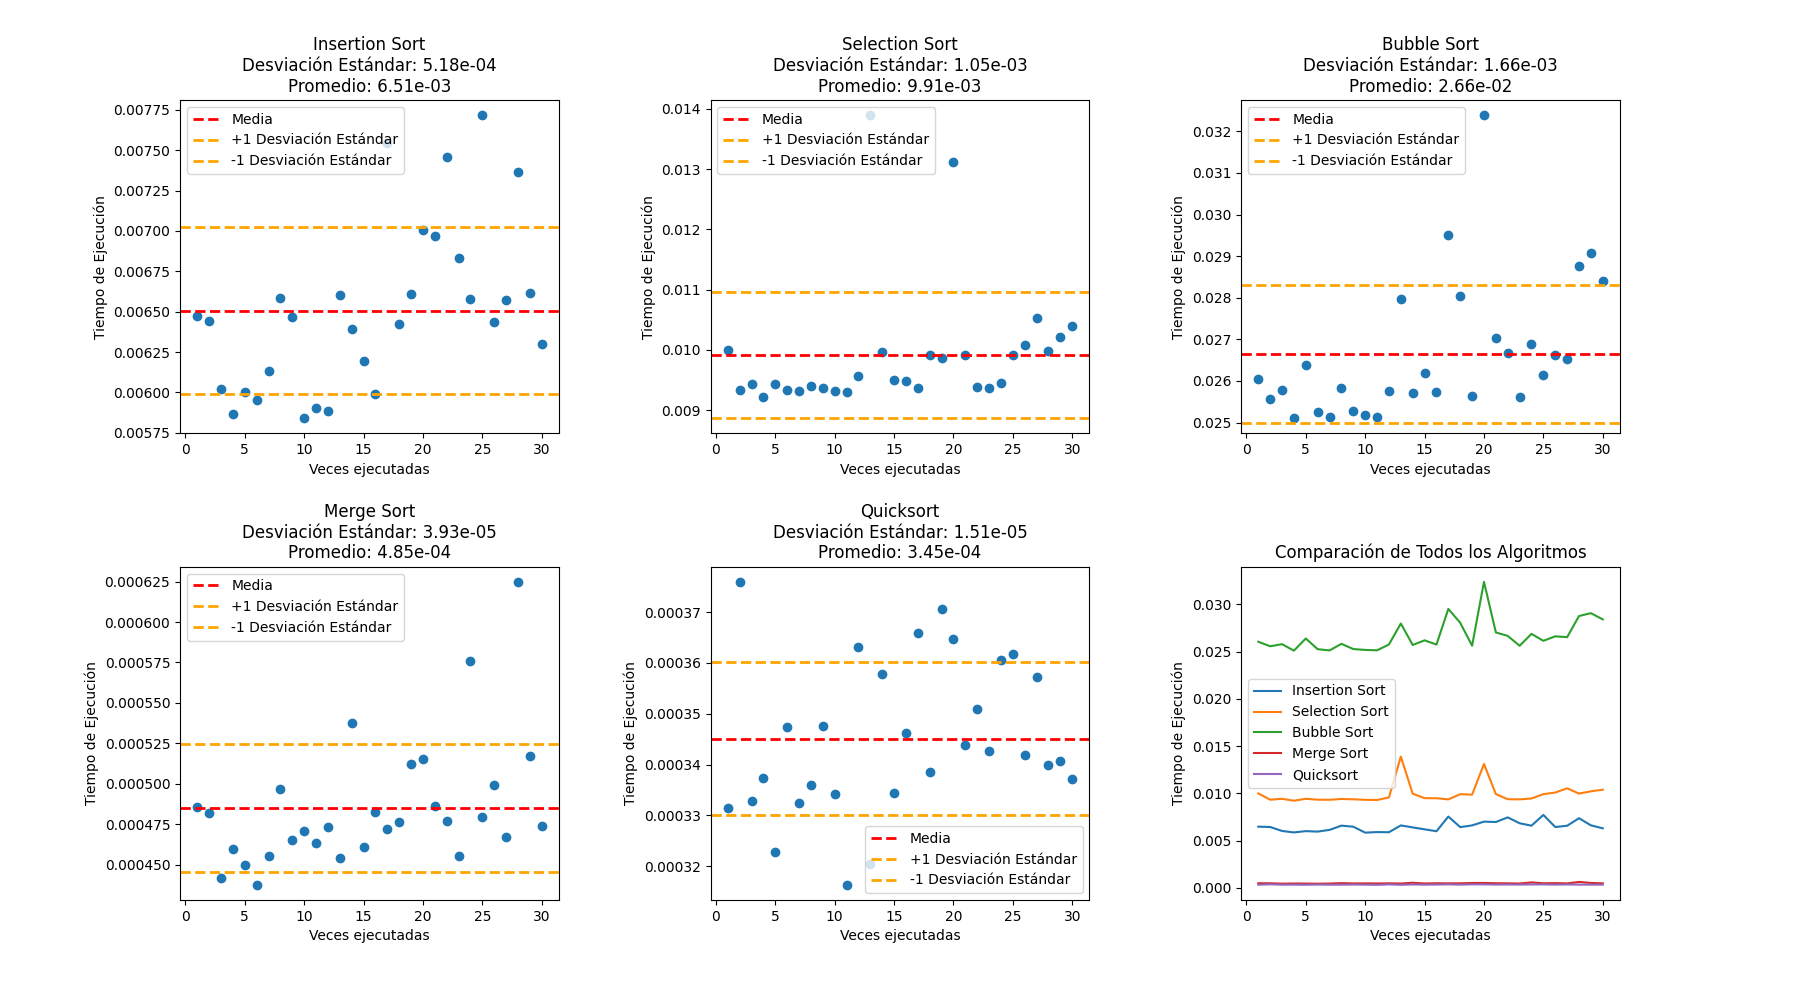
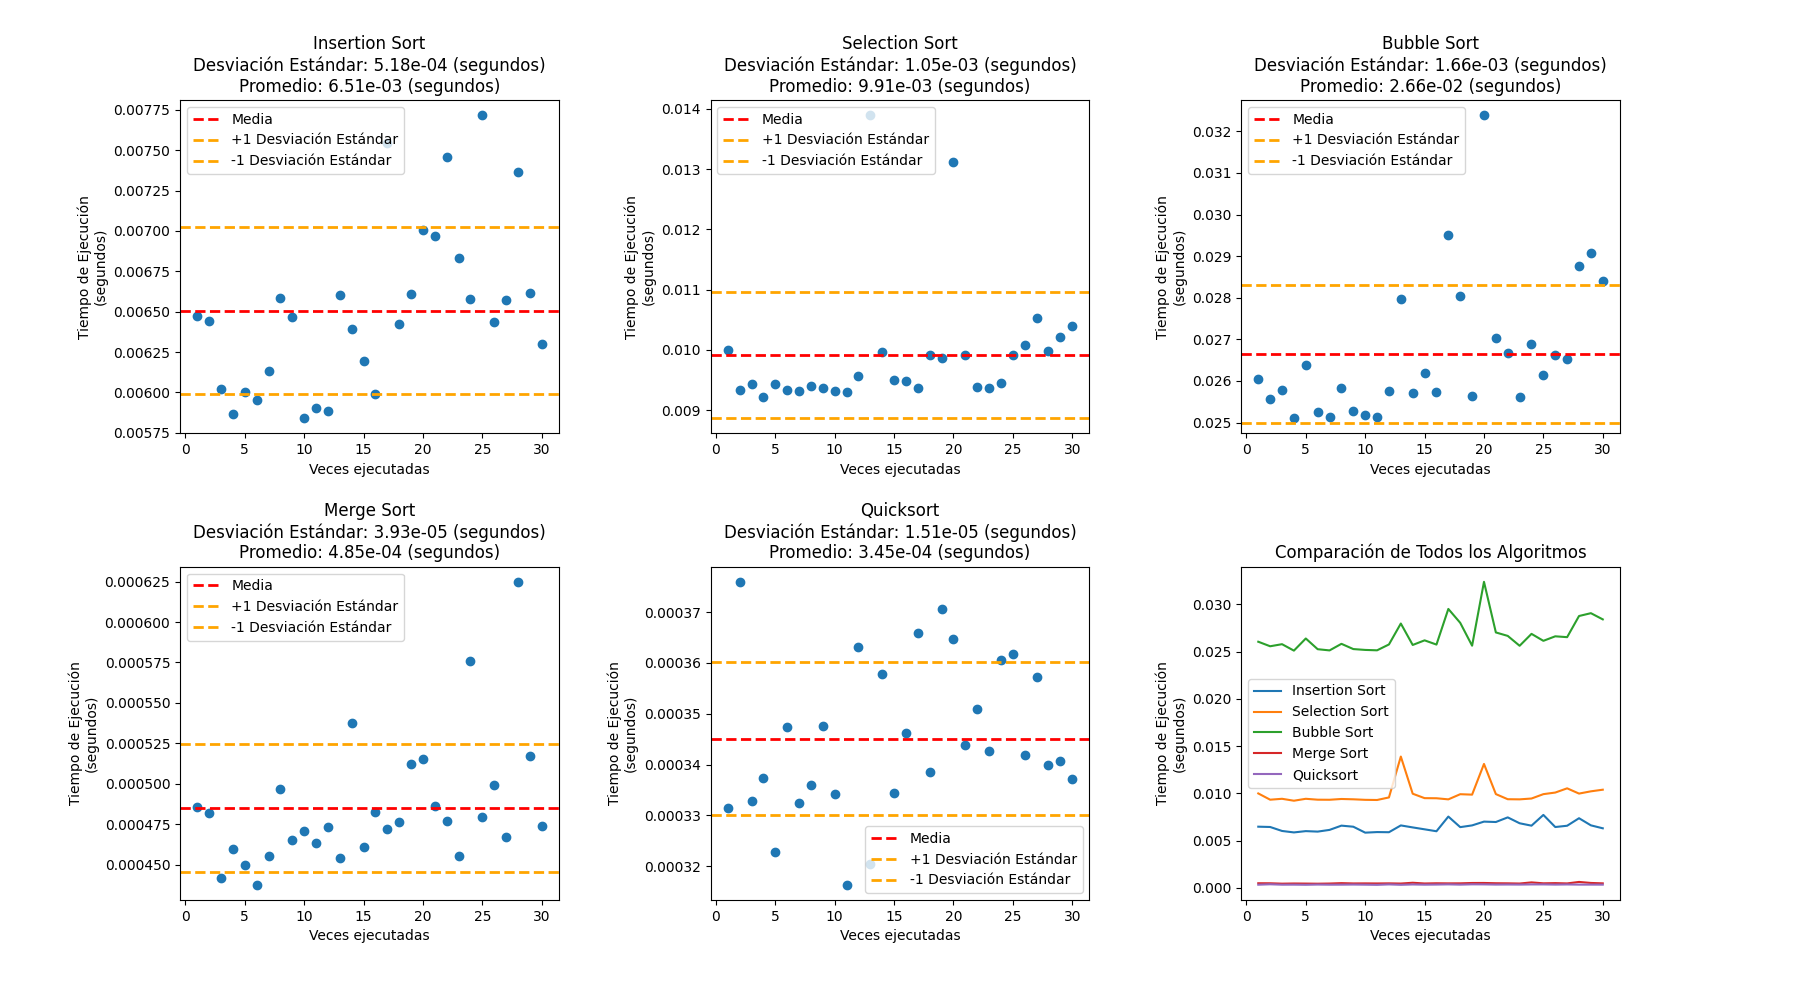
Fin reporte

diff --git a/analisis/graficar.py b/analisis/graficar.py
@@ -6,7 +6,7 @@ import sys
 
 # Verificar el número correcto de argumentos
 if len(sys.argv) != 2:
-    print("Uso: python tu_script.py <archivo_csv>")
+    print("Uso: python graficar.py <archivo_csv>")
     sys.exit(1)
 
 # Configurar el parser de argumentos
@@ -41,9 +41,9 @@ for i, algoritmo in enumerate(algoritmos):
     ax.axhline(df[algoritmo].mean(), color='red', linestyle='dashed', linewidth=2, label='Media')
     ax.axhline(df[algoritmo].mean() + df[algoritmo].std(), color='orange', linestyle='dashed', linewidth=2, label='+1 Desviación Estándar')
     ax.axhline(df[algoritmo].mean() - df[algoritmo].std(), color='orange', linestyle='dashed', linewidth=2, label='-1 Desviación Estándar')
-    ax.set_title(f'{algoritmo}\nDesviación Estándar: {df[algoritmo].std():.2e}\nPromedio: {df[algoritmo].mean():.2e}')
+    ax.set_title(f'{algoritmo}\nDesviación Estándar: {df[algoritmo].std():.2e} (segundos)\nPromedio: {df[algoritmo].mean():.2e} (segundos)')
     ax.set_xlabel('Veces ejecutadas')
-    ax.set_ylabel('Tiempo de Ejecución')
+    ax.set_ylabel('Tiempo de Ejecución\n(segundos)')
     ax.legend()
     print(f'\n{algoritmo}\nDesviación Estándar: {df[algoritmo].std():.2e}\nPromedio: {df[algoritmo].mean():.2e}')
 
@@ -54,7 +54,7 @@ for algoritmo in algoritmos:
 
 ax_all_algorithms.set_title('Comparación de Todos los Algoritmos')
 ax_all_algorithms.set_xlabel('Veces ejecutadas')
-ax_all_algorithms.set_ylabel('Tiempo de Ejecución')
+ax_all_algorithms.set_ylabel('Tiempo de Ejecución\n(segundos)')
 ax_all_algorithms.legend()
 
 # Ajustar márgenes
@@ -66,4 +66,3 @@ ruta_guardado = os.path.join(carpeta_assets, nombre_archivo_imagen)
 
 # Guardar la imagen en la carpeta 'assets' con el nombre construido dinámicamente
 plt.savefig(ruta_guardado)
-

diff --git a/README.md b/README.md
@@ -6,21 +6,22 @@ En esta práctica se pondrá a prueba los algoritmos de ordenamiento **Merge sor
 
 ## Tablas de promedio y desviación estandar
 
-### Tabla de desviación estandar
-|          n |       IS |       SS |        BS |       MS |       QS |
-|-----------:|---------:|---------:|----------:|---------:|---------:|
-|      5     | 2.78e-08 | 3.57e-08 |  3.29e-08 | 9.12e-08 | 3.88e-08 |
-|     10     | 2.84e-08 | 4.94e-08 |  6.19e-08 | 1.18e-07 | 5.08e-08 |
-|     50     | 3.53e-07 | 4.56e-07 |  5.06e-07 | 2.74e-07 | 1.97e-07 |
-|    100     | 1.18e-06 | 1.1e-06  |  1.65e-06 | 3.03e-07 | 3.75e-07 |
-|    500     | 3.07e-05 | 6.84e-06 |  2.02e-05 | 2.8e-06  | 1.61e-06 |
-|   1000     | 9.38e-05 | 2.84e-05 |  9.3e-05  | 4.26e-06 | 2.46e-06 |
-|   5000     | 0.000518 | 0.00105  |  0.00166  | 3.93e-05 | 1.51e-05 |
-|  10000     | 0.00154  | 0.000984 |  0.00277  | 7.03e-05 | 4.41e-05 |
-|  50000     | 0.00691  | 0.00964  |  0.0362   | 0.000242 | 0.000134 |
-| 100000     | 0.0182   | 0.0223   |  0.0619   | 0.000347 | 0.000801 |
-| 500000     | 0.361    | 0.368    |  2.13     | 0.0019   | 0.00112  |
-|      1e+06 | 1.75     | 3.19     | 13.7      | 0.0021   | 0.00212  |
+### Tabla de desviación estandar sobre la ejecución de los algoritmos
+
+|   No. Repeticiones |   IS(segundos) |   SS(segundos) |   BS(segundos) |   MS(segundos) |   QS(segundos) |
+|-------------------:|---------------:|---------------:|---------------:|---------------:|---------------:|
+|              5     |       2.78e-08 |       3.57e-08 |       3.29e-08 |       9.12e-08 |       3.88e-08 |
+|             10     |       2.84e-08 |       4.94e-08 |       6.19e-08 |       1.18e-07 |       5.08e-08 |
+|             50     |       3.53e-07 |       4.56e-07 |       5.06e-07 |       2.74e-07 |       1.97e-07 |
+|            100     |       1.18e-06 |       1.1e-06  |       1.65e-06 |       3.03e-07 |       3.75e-07 |
+|            500     |       3.07e-05 |       6.84e-06 |       2.02e-05 |       2.8e-06  |       1.61e-06 |
+|           1000     |       9.38e-05 |       2.84e-05 |       9.3e-05  |       4.26e-06 |       2.46e-06 |
+|           5000     |       0.000518 |       0.00105  |       0.00166  |       3.93e-05 |       1.51e-05 |
+|          10000     |       0.00154  |       0.000984 |       0.00277  |       7.03e-05 |       4.41e-05 |
+|          50000     |       0.00691  |       0.00964  |       0.0362   |       0.000242 |       0.000134 |
+|         100000     |       0.0182   |       0.0223   |       0.0619   |       0.000347 |       0.000801 |
+|         500000     |       0.361    |       0.368    |       2.13     |       0.0019   |       0.00112  |
+|              1e+06 |       1.75     |       3.19     |      13.7      |       0.0021   |       0.00212  |
 
 
 
@@ -32,60 +33,65 @@ En esta práctica se pondrá a prueba los algoritmos de ordenamiento **Merge sor
 
         La desviación estándar tiende a disminuir a medida que el tamaño de muestra aumenta para algunos algoritmos. Por ejemplo, para Merge Sort (MS), la desviación estándar disminuye de 2.74e-07 (n=50) a 4.26e-06 (n=1000).
 
-**2. Comparación entre Algoritmos:**
+**3. Comparación entre Algoritmos:**
 
         En general, Quicksort (QS) muestra desviaciones estándar más bajas en comparación con otros algoritmos en varios tamaños de muestra. Bubble Sort (BS) tiende a tener desviaciones estándar más altas.
 
-**3. Identificación de Algoritmos Robustos:**
+**4. Identificación de Algoritmos Robustos:**
 
         Quicksort (QS) podría considerarse más robusto, ya que tiene desviaciones estándar consistentemente bajas en comparación con otros algoritmos.
 
-**4. Tendencias Generales:**
+**5. Tendencias Generales:**
 
         Para algunos algoritmos, como Merge Sort (MS) y QuickSort (QS), la desviación estándar tiende a estabilizarse o disminuir a medida que el tamaño de muestra aumenta.
 
-**5. Identificación de Puntos de Quiebre:**
+**6. Identificación de Puntos de Quiebre:**
 
         No hay puntos de quiebre evidentes en los que la desviación estándar aumente drásticamente para un tamaño de muestra específico en esta tabla.
 
-**6. Consideraciones Prácticas:**
+**7. Consideraciones Prácticas:**
 
         Aunque Quicksort (QS) parece ser el algoritmo más consistente en este conjunto de datos, la elección del algoritmo debe considerar otros factores prácticos, como la complejidad temporal y espacial, dependiendo del contexto de uso.
 
 ---
-### Tabla de promedio
-|          n |         IS |         SS |          BS |       MS |       QS |
-|-----------:|-----------:|-----------:|------------:|---------:|---------:|
-|      5     |   1.05e-07 |   1.21e-07 |    1.22e-07 | 2.34e-07 | 1.34e-07 |
-|     10     |   2.17e-07 |   3.52e-07 |    3.68e-07 | 5.28e-07 | 3.33e-07 |
-|     50     |   1.61e-06 |   2.99e-06 |    5.52e-06 | 3.39e-06 | 1.99e-06 |
-|    100     |   5.86e-06 |   8.85e-06 |    1.86e-05 | 7.37e-06 | 4.36e-06 |
-|    500     |   0.000114 |   0.000126 |    0.000342 | 4.19e-05 | 2.77e-05 |
-|   1000     |   0.000348 |   0.00043  |    0.00113  | 8.21e-05 | 5.68e-05 |
-|   5000     |   0.00651  |   0.00991  |    0.0266   | 0.000485 | 0.000345 |
-|  10000     |   0.0249   |   0.0384   |    0.119    | 0.00102  | 0.000745 |
-|  50000     |   0.624    |   0.978    |    4.5      | 0.00594  | 0.00422  |
-| 100000     |   2.54     |   3.88     |   18.7      | 0.0126   | 0.00928  |
-| 500000     |  63.8      |  98.3      |  483        | 0.0705   | 0.0505   |
-|      1e+06 | 264        | 396        | 1960        | 0.147    | 0.107    |
+### Tabla de tiempo promedio de ejecución
+
+|   No. Repeticiones |   IS(segundos) |   SS(segundos) |   BS(segundos) |   MS(segundos) |   QS(segundos) |
+|-------------------:|---------------:|---------------:|---------------:|---------------:|---------------:|
+|              5     |       1.05e-07 |       1.21e-07 |       1.22e-07 |       2.34e-07 |       1.34e-07 |
+|             10     |       2.17e-07 |       3.52e-07 |       3.68e-07 |       5.28e-07 |       3.33e-07 |
+|             50     |       1.61e-06 |       2.99e-06 |       5.52e-06 |       3.39e-06 |       1.99e-06 |
+|            100     |       5.86e-06 |       8.85e-06 |       1.86e-05 |       7.37e-06 |       4.36e-06 |
+|            500     |       0.000114 |       0.000126 |       0.000342 |       4.19e-05 |       2.77e-05 |
+|           1000     |       0.000348 |       0.00043  |       0.00113  |       8.21e-05 |       5.68e-05 |
+|           5000     |       0.00651  |       0.00991  |       0.0266   |       0.000485 |       0.000345 |
+|          10000     |       0.0249   |       0.0384   |       0.119    |       0.00102  |       0.000745 |
+|          50000     |       0.624    |       0.978    |       4.5      |       0.00594  |       0.00422  |
+|         100000     |       2.54     |       3.88     |      18.7      |       0.0126   |       0.00928  |
+|         500000     |      63.8      |      98.3      |     483        |       0.0705   |       0.0505   |
+|              1e+06 |     264        |     396        |    1960        |       0.147    |       0.107    |
 
 **1. Comparación de Rendimiento:**
 
         En términos generales, se puede observar que los tiempos promedio de ejecución varían para cada algoritmo en función del tamaño de la muestra (n).
         Quicksort (QS) sigue siendo generalmente más rápido en comparación con los demás algoritmos.
-Efecto del Tamaño de Muestra:
 
-A medida que el tamaño de la muestra aumenta, los tiempos de ejecución promedio también aumentan para todos los algoritmos. Esto es esperado, ya que el tiempo de ejecución suele depender del tamaño de la entrada.
-Identificación de Algoritmos Eficientes:
+**2. Efecto del Tamaño de Muestra:**
 
-Quicksort (QS) continúa mostrando tiempos de ejecución promedio más bajos en comparación con los demás algoritmos en todos los tamaños de muestra.
-Bubble Sort (BS) tiende a tener tiempos de ejecución más altos, especialmente a medida que el tamaño de la muestra aumenta.
-Comparación con Desviación Estándar:
+        A medida que el tamaño de la muestra aumenta, los tiempos de ejecución promedio también aumentan para todos los algoritmos. Esto es esperado, ya que el tiempo de ejecución suele depender del tamaño de la entrada.
 
-Puedes comparar estos resultados con la tabla de desviación estándar para obtener una comprensión completa del rendimiento y la consistencia de cada algoritmo.
-Consideraciones Prácticas:
+**3. Identificación de Algoritmos Eficientes:**
 
-Aunque Quicksort (QS) muestra tiempos de ejecución promedio más bajos, es importante considerar otros factores, como la complejidad temporal y espacial, así como el comportamiento en escenarios específicos.
+        Quicksort (QS) continúa mostrando tiempos de ejecución promedio más bajos en comparación con los demás algoritmos en todos los tamaños de muestra.
+        Bubble Sort (BS) tiende a tener tiempos de ejecución más altos, especialmente a medida que el tamaño de la muestra aumenta.
+
+**4. Comparación con Desviación Estándar:**
+
+        Puedes comparar estos resultados con la tabla de desviación estándar para obtener una comprensión completa del rendimiento y la consistencia de cada algoritmo.
+
+**5. Consideraciones Prácticas:**
+
+        Aunque Quicksort (QS) muestra tiempos de ejecución promedio más bajos, es importante considerar otros factores, como la complejidad temporal y espacial, así como el comportamiento en escenarios específicos.
 
 # Ejecución del programa
 
